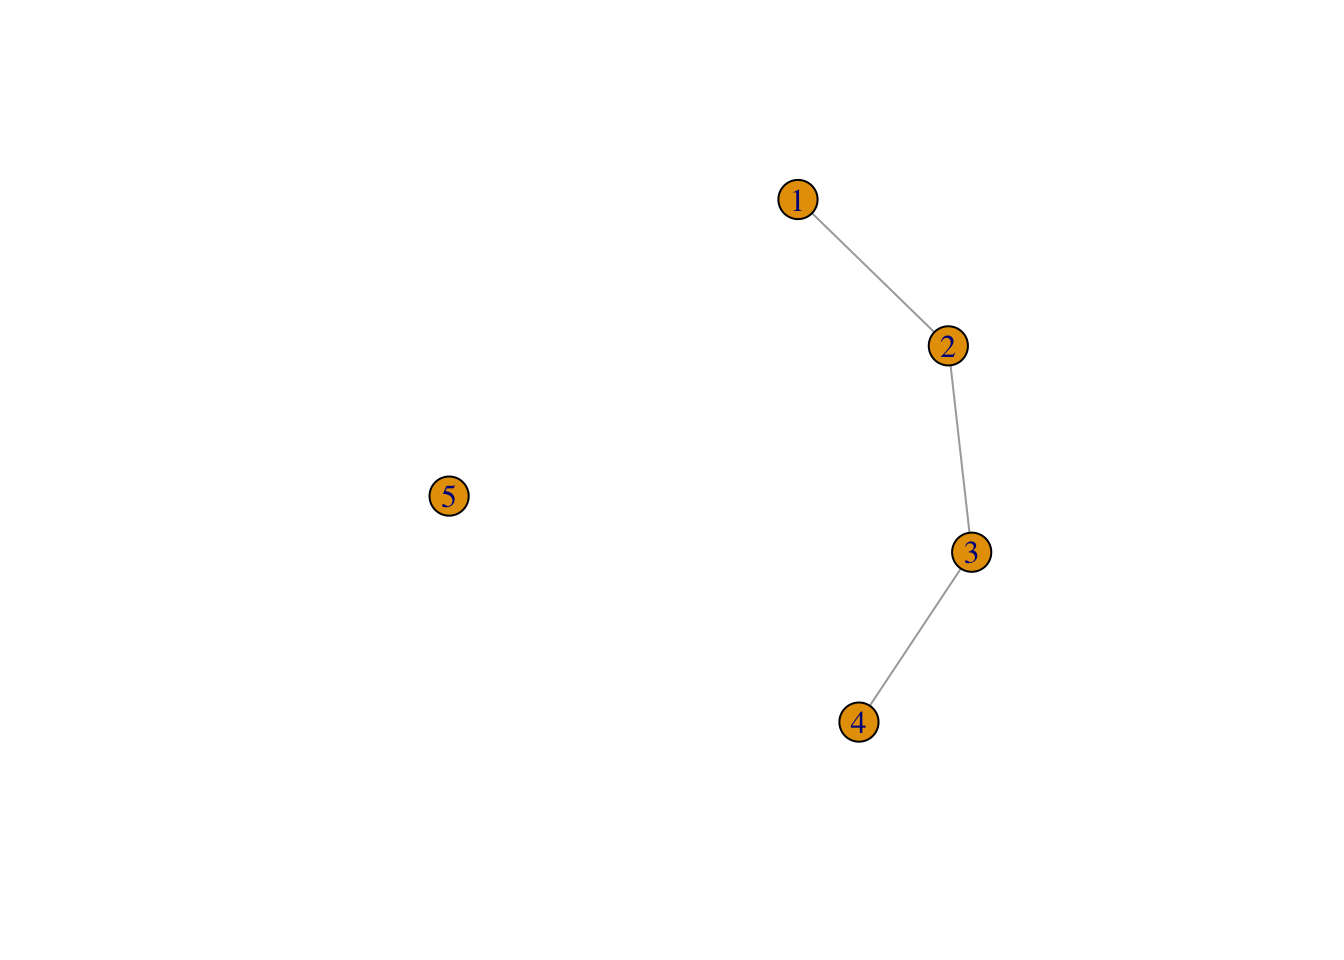
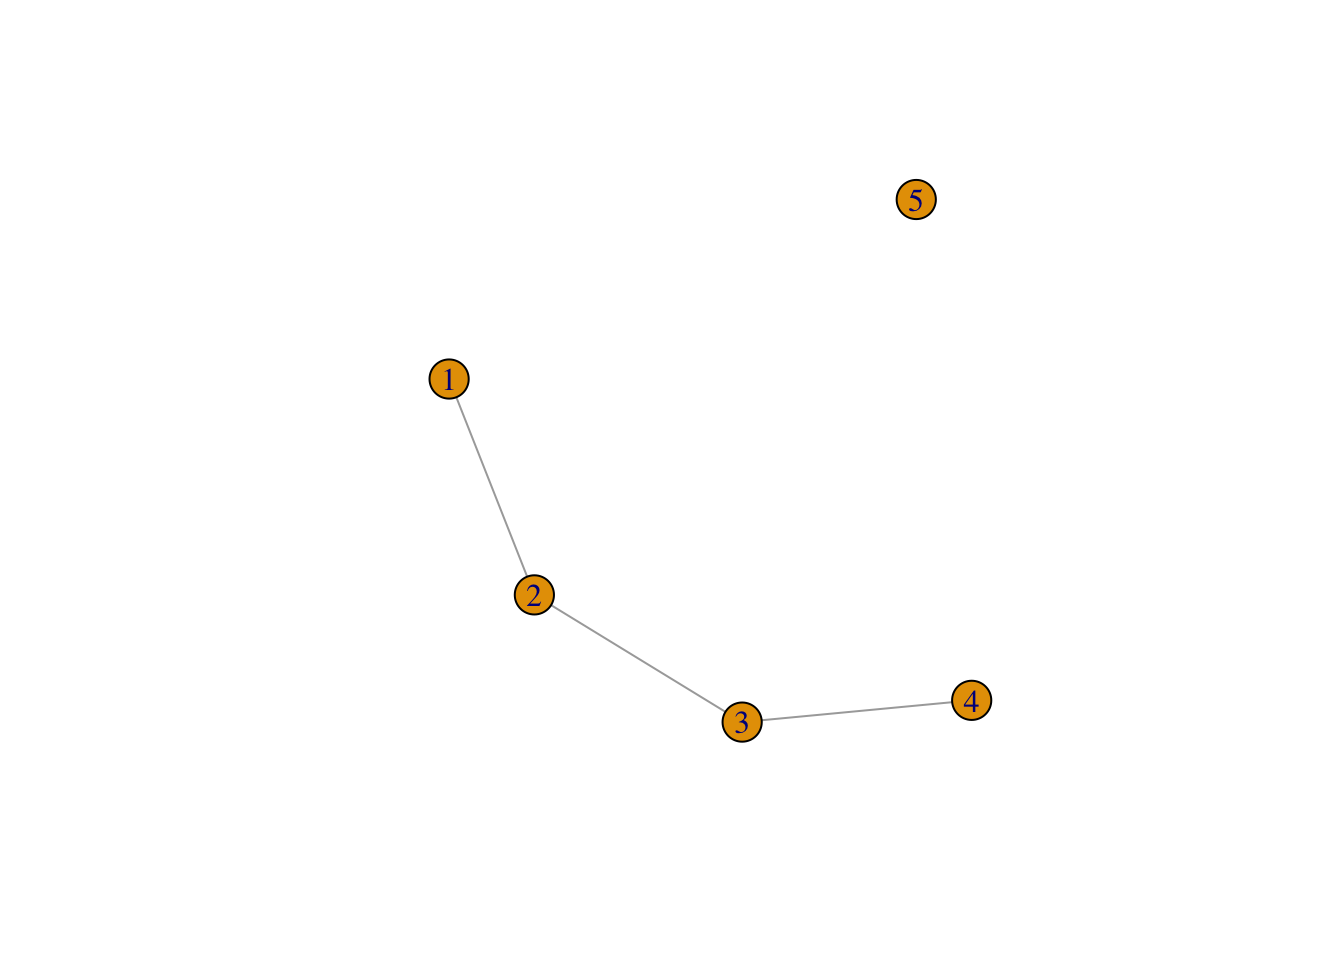
Heidi was right

diff --git a/docs/posts/A8-NetworkData/index.html b/docs/posts/A8-NetworkData/index.html
@@ -2397,7 +2397,7 @@ window.document.addEventListener("DOMContentLoaded", function (event) {
 <span id="cb114-639"><a href="#cb114-639" aria-hidden="true" tabindex="-1"></a>g <span class="ot">&lt;-</span> <span class="fu">graph_from_data_frame</span>(relations3, <span class="at">directed=</span><span class="cn">FALSE</span>, <span class="at">vertices=</span>people)</span>
 <span id="cb114-640"><a href="#cb114-640" aria-hidden="true" tabindex="-1"></a></span>
 <span id="cb114-641"><a href="#cb114-641" aria-hidden="true" tabindex="-1"></a></span>
-<span id="cb114-642"><a href="#cb114-642" aria-hidden="true" tabindex="-1"></a><span class="fu">plot</span>(g)</span>
+<span id="cb114-642"><a href="#cb114-642" aria-hidden="true" tabindex="-1"></a><span class="fu">plot</span>(g,  <span class="at">layout =</span> layout_with_fr)</span>
 <span id="cb114-643"><a href="#cb114-643" aria-hidden="true" tabindex="-1"></a></span>
 <span id="cb114-644"><a href="#cb114-644" aria-hidden="true" tabindex="-1"></a></span>
 <span id="cb114-645"><a href="#cb114-645" aria-hidden="true" tabindex="-1"></a><span class="in">```</span></span>
@@ -2409,6 +2409,7 @@ window.document.addEventListener("DOMContentLoaded", function (event) {
 <span id="cb114-651"><a href="#cb114-651" aria-hidden="true" tabindex="-1"></a><span class="ss">1.  </span>Coloring the edges according to Advisor / BCB520 attribute.</span>
 <span id="cb114-652"><a href="#cb114-652" aria-hidden="true" tabindex="-1"></a><span class="ss">2.  </span>Coloring the nodes according to Department.</span>
 <span id="cb114-653"><a href="#cb114-653" aria-hidden="true" tabindex="-1"></a><span class="ss">3.  </span>Adujsting the labels to improve readability.</span>
+<span id="cb114-654"><a href="#cb114-654" aria-hidden="true" tabindex="-1"></a><span class="ss">4. </span>Find the best layout you can for this garbage.  What a nightmare.</span>
 </code><button title="Copy to Clipboard" class="code-copy-button"><i class="bi"></i></button></pre></div>
 </div></div></div></div></div>
 </div> <!-- /content -->

diff --git a/docs/index.html b/docs/index.html
@@ -317,7 +317,7 @@ Barrie
 </div>
 </a>
 </div>
-<div class="g-col-1" data-index="2" data-categories="Portfolio,DataViz,Network,iGraph,Assignment" data-listing-date-sort="1712214000000" data-listing-file-modified-sort="1712263481843" data-listing-date-modified-sort="NaN" data-listing-reading-time-sort="44" data-listing-word-count-sort="8705">
+<div class="g-col-1" data-index="2" data-categories="Portfolio,DataViz,Network,iGraph,Assignment" data-listing-date-sort="1712214000000" data-listing-file-modified-sort="1712268700706" data-listing-date-modified-sort="NaN" data-listing-reading-time-sort="44" data-listing-word-count-sort="8722">
 <a href="./posts/A8-NetworkData/index.html" class="quarto-grid-link">
 <div class="quarto-grid-item card h-100 card-left">
 <p class="card-img-top">
